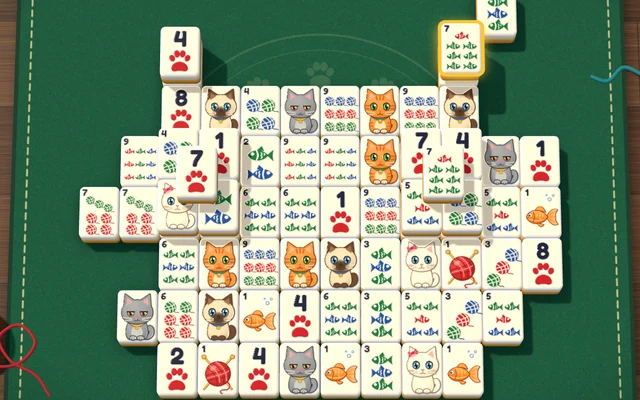
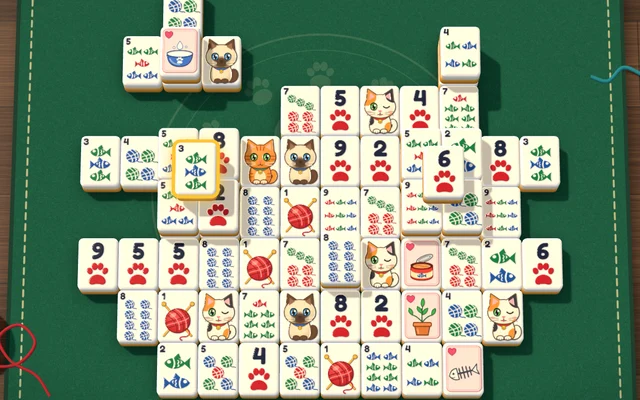
Purrjong: tighter movement on the 3D table
A matched pair rises only as far as it needs to clear what stands between the two tiles, and meets sooner.
Tiles are dealt from lower down, hints run on the same clock as the rest, the yarn has more thread to it.
The flat fallback no longer trips over a board that was swapped mid-move.

Claude-Session: https://claude.ai/code/session_01553PDU8sd3HscmWG3hFphE

diff --git a/mahjong/index.html b/mahjong/index.html
@@ -92,7 +92,7 @@ body.r2d .app{pointer-events:auto;background:
 
 /* pop-ups */
 .modal{position:fixed;inset:0;z-index:50;display:grid;place-items:center;padding-block:20px;padding-left:max(16px,env(safe-area-inset-left,0px));padding-right:max(16px,env(safe-area-inset-right,0px));box-sizing:border-box;background:rgba(3,20,14,.62);-webkit-backdrop-filter:blur(4px);backdrop-filter:blur(4px)}
-.card{box-sizing:border-box;width:100%;max-width:440px;max-height:calc(100dvh - 40px);overflow:auto;background:var(--paper);color:var(--paper-ink);border-radius:24px;padding:24px 22px 20px;box-shadow:0 24px 70px rgba(0,0,0,.5);text-align:center;animation:pop .26s cubic-bezier(.2,1.3,.4,1)}
+.card{color-scheme:light;box-sizing:border-box;width:100%;max-width:440px;max-height:calc(100dvh - 40px);overflow:auto;background:var(--paper);color:var(--paper-ink);border-radius:24px;padding:24px 22px 20px;box-shadow:0 24px 70px rgba(0,0,0,.5);text-align:center;animation:pop .26s cubic-bezier(.2,1.3,.4,1)}
 @keyframes pop{from{transform:scale(.92);opacity:0}}
 .card h2{margin:4px 0 8px;font-size:30px;font-weight:700;line-height:1.1;text-wrap:balance}
 .card p{margin:0 0 14px;font-size:16px;line-height:1.45;color:var(--paper-soft)}
@@ -687,7 +687,7 @@ function make2d(){
         if (RM){ el.hidden = true; continue; }
         el.style.zIndex = 9000;
         el.animate([{transform:'none', opacity:1}, {transform:'translateY(-14%) scale(1.12)', opacity:1, offset:.35}, {transform:'translateY(-30%) scale(.6)', opacity:0}], {duration:330, easing:'ease-in'})
-          .onfinish = () => { el.hidden = true; el.style.zIndex = zi(i); };
+          .onfinish = () => { if (els[i] !== el) return; el.hidden = true; el.style.zIndex = zi(i); };
       }
     },
     back(a, b){
@@ -698,7 +698,7 @@ function make2d(){
       const swap = () => { for (const i of alive){ els[i].querySelector('use').setAttribute('href', '#' + S.f[i]); els[i].setAttribute('aria-label', NAME[S.f[i]]); } };
       if (RM){ swap(); done(); return; }
       alive.forEach(i => els[i].animate([{transform:'none'}, {transform:'scaleX(0)'}], {duration:160, easing:'ease-in', fill:'forwards'}));
-      setTimeout(() => { swap(); alive.forEach(i => { els[i].getAnimations().forEach(x => x.cancel()); els[i].animate([{transform:'scaleX(0)'}, {transform:'none'}], {duration:200, easing:'ease-out'}); }); done(); }, 170);
+      const mine = els; setTimeout(() => { if (els !== mine) return done(); swap(); alive.forEach(i => { els[i].getAnimations().forEach(x => x.cancel()); els[i].animate([{transform:'scaleX(0)'}, {transform:'none'}], {duration:200, easing:'ease-out'}); }); done(); }, 170);
     },
     dim(on){ board.classList.toggle('dim', on); },
     cheer(){}, idle(){ return true; }
@@ -870,11 +870,11 @@ async function make3d(){
     aoT.needsUpdate = true;
   }
   const yarnT = col => {
-    const N = 256, c = canvas(N * 2, N), x = c.getContext('2d'); x.fillStyle = col[0]; x.fillRect(0, 0, N * 2, N); x.lineWidth = 3.4; x.lineCap = 'round';
+    const N = 256, c = canvas(N * 2, N), x = c.getContext('2d'); x.fillStyle = col[0]; x.fillRect(0, 0, N * 2, N); x.lineWidth = 4.6; x.lineCap = 'round';
     for (let b = 0; b < 7; b++){
       const inc = .25 + Math.random() * 1.2, l0 = Math.random() * 7;
       for (let k = 0; k < 16; k++){
-        const i2 = inc + (k - 8) * .035, l1 = l0 + (k - 8) * .012; x.strokeStyle = k % 2 ? col[1] : col[2]; x.globalAlpha = k % 2 ? .7 : .4; x.beginPath();
+        const i2 = inc + (k - 8) * .035, l1 = l0 + (k - 8) * .012; x.strokeStyle = k % 2 ? col[1] : col[2]; x.globalAlpha = k % 2 ? .85 : .5; x.beginPath();
         for (let px = 0; px <= N * 2; px += 6){ const lat = Math.atan(Math.tan(i2) * Math.sin(px / N * Math.PI - l1)), yy = N / 2 - lat / (Math.PI / 2) * N / 2; if (px) x.lineTo(px, yy); else x.moveTo(px, yy); } x.stroke();
       }
     }
@@ -882,7 +882,7 @@ async function make3d(){
   };
   const props = new T.Group(); scene.add(props);
   const ball = (cols, r, pts) => {
-    const g = new T.Group(), t = yarnT(cols), m = new T.MeshStandardMaterial({map:t, bumpMap:t, bumpScale:1.2, roughness:.95, metalness:0, envMapIntensity:.15});
+    const g = new T.Group(), t = yarnT(cols), m = new T.MeshStandardMaterial({map:t, bumpMap:t, bumpScale:2.2, roughness:.95, metalness:0, envMapIntensity:.15});
     const b = new T.Mesh(new T.SphereGeometry(r, 40, 28), m); b.position.y = r; b.rotation.set(.5, .3, .2); b.castShadow = b.receiveShadow = true; g.add(b);
     const th = new T.Mesh(new T.TubeGeometry(new T.CatmullRomCurve3(pts.map(q => new T.Vector3(q[0] * r, .05, q[1] * r))), 90, .05, 6), new T.MeshStandardMaterial({color:cols[0], roughness:.95, metalness:0, envMapIntensity:.1})); th.castShadow = true; g.add(th);
     g.thread = th; props.add(g); return g;
@@ -930,8 +930,9 @@ async function make3d(){
 
   /* ---- animation: a list of things in motion, and a frame only while the list is not empty ---- */
   const anims = []; let raf = 0;
-  const SLOW = +QS.get('slow') || 1;      // ?slow=20 plays every movement twenty times slower, for looking at
-  function run(key, dur, delay, step, done){ anims.push({key, t0:performance.now() + delay * SLOW, dur:dur * SLOW, step, done}); kick(); }
+  const SLOW = +QS.get('slow') || 1, HAND = QS.has('step');      // ?slow=20 plays every movement twenty times slower; ?step stops the clock so a test can turn it by hand
+  let hand = 0; const clock = () => HAND ? hand : performance.now();
+  function run(key, dur, delay, step, done){ anims.push({key, t0:clock() + delay * SLOW, dur:dur * SLOW, step, done}); kick(); }
   function stop(key){ for (let k = anims.length - 1; k >= 0; k--) if (anims[k].key === key){ anims[k].dead = true; anims.splice(k, 1); } }
   let lastF = 0, slowN = 0, slowT = 0, warm = 0;
   function pace(now){   // only frames that follow one another count; the first few carry the cost of starting up
@@ -942,7 +943,7 @@ async function make3d(){
     if (avg > 30){ Q++; store.set('purr-q', Q); quality(); fit(); }
   }
   function frame(now){
-    raf = 0;
+    raf = 0; if (HAND) now = hand;
     for (const a of anims.slice()){
       if (a.dead) continue; const t = (now - a.t0) / a.dur; if (t < 0) continue;
       a.step(t >= 1 ? 1 : t);
@@ -951,10 +952,10 @@ async function make3d(){
     gl.render(scene, cam); pace(now);
     if (anims.length) kick();
   }
-  function kick(){ if (!raf) raf = requestAnimationFrame(frame); }
+  function kick(){ if (!raf && !HAND) raf = requestAnimationFrame(frame); }
 
   /* ---- the board ---- */
-  let meshes = [], rest = [], corners = [], topY = TT, excl = [], blk = [], hinted = new Set(), hintT = {}, selI = -1, hov = -1, span = 10, bw = 10, bh = 10, matBig = null;
+  let meshes = [], rest = [], corners = [], topY = TT, excl = [], blk = [], hinted = new Set(), selI = -1, hov = -1, span = 10, bw = 10, bh = 10, matBig = null;
   const v = new T.Vector3();
   const paint = i => { const m = meshes[i]; if (m) m.material = dimOn && blk[i] && selI !== i ? mDim : mBase; };
   function bands(){
@@ -993,7 +994,7 @@ async function make3d(){
         const m = meshes[i], r = rest[i]; m.visible = false; excl[i] = true;
         run('t' + i, 430, k * step, t => {
           m.visible = true;
-          const y = t < .72 ? 4.5 * (1 - Math.pow(t / .72, 2)) : .09 * Math.sin(Math.PI * (t - .72) / .28);
+          const y = t < .72 ? 2.6 * (1 - Math.pow(t / .72, 2)) : .09 * Math.sin(Math.PI * (t - .72) / .28);
           m.position.set(r.x, r.y + y, r.z); m.rotation.z = (1 - Math.min(1, t / .72)) * .22;
         }, () => { reset(i); settle(i); });
       });
@@ -1072,16 +1073,19 @@ async function make3d(){
       for (const i of [a, b]){ stop('y' + i); stop('t' + i); stop('h' + i); stop('n' + i); hinted.delete(i); if (selI === i) selI = -1; if (hov === i) hov = -1; paint(i); }
       placeHalo(); drawAO();
       if (RM){ for (const i of [a, b]) meshes[i].visible = false; meet(); kick(); return; }
-      const ra = rest[a], rb = rest[b], fly = topY + TT / 2 + .5, lf = ra.x < rb.x || (ra.x === rb.x && ra.z <= rb.z) ? a : b, mx = (ra.x + rb.x) / 2, mz = (ra.z + rb.z) / 2;
+      const ra = rest[a], rb = rest[b], lf = ra.x < rb.x || (ra.x === rb.x && ra.z <= rb.z) ? a : b, mx = (ra.x + rb.x) / 2, mz = (ra.z + rb.z) / 2;
+      let top = Math.max(ra.y, rb.y) + TT / 2; const dx = rb.x - ra.x, dz = rb.z - ra.z, len = dx * dx + dz * dz || 1;   // rise just clear of whatever stands between the two
+      for (let i = 0; i < rest.length; i++){ if (!S.on[i]) continue; const r = rest[i], q = Math.max(0, Math.min(1, ((r.x - ra.x) * dx + (r.z - ra.z) * dz) / len)); if (Math.abs(ra.x + dx * q - r.x) < TW && Math.abs(ra.z + dz * q - r.z) < TH && r.y + TT / 2 > top) top = r.y + TT / 2; }
+      const fly = top + TT / 2 + .32;
       let met = false;
       for (const i of [a, b]){
         const m = meshes[i], r = rest[i], side = i === lf ? -1 : 1, yy = m.position.y, tx = mx + side * TW * .5; excl[i] = true;
-        run('t' + i, 600, 0, t => {
-          if (t < .3){ const e = outCubic(t / .3); m.position.set(r.x, yy + (fly - yy) * e, r.z); m.scale.setScalar(1 + .08 * e); }
-          else if (t < .7){ const e = (t - .3) / .4, q = e * e * e; m.position.set(r.x + (tx - r.x) * q, fly, r.z + (mz - r.z) * q); m.rotation.z = -side * Math.sin(e * Math.PI) * .12; }
+        run('t' + i, 540, 0, t => {
+          if (t < .28){ const e = outCubic(t / .28); m.position.set(r.x, yy + (fly - yy) * e, r.z); m.scale.setScalar(1 + .08 * e); }
+          else if (t < .68){ const e = (t - .28) / .4, q = e * e * e; m.position.set(r.x + (tx - r.x) * q, fly, r.z + (mz - r.z) * q); m.rotation.z = -side * Math.sin(e * Math.PI) * .12; }
           else {
             if (!met){ met = true; meet(); burst(new T.Vector3(mx, fly + .1, mz)); }
-            const e = (t - .7) / .3, sc = e < .3 ? 1.08 + .12 * Math.sin(e / .3 * Math.PI / 2) : 1.2 * (1 - Math.pow((e - .3) / .7, 2));
+            const e = (t - .68) / .32, sc = e < .3 ? 1.08 + .12 * Math.sin(e / .3 * Math.PI / 2) : 1.2 * (1 - Math.pow((e - .3) / .7, 2));
             m.position.set(tx - side * e * .08, fly + e * .3, mz); m.rotation.z = 0; m.rotation.y = side * e * .7; m.scale.setScalar(Math.max(.0001, sc));
           }
         }, () => { m.visible = false; reset(i); });
@@ -1098,9 +1102,9 @@ async function make3d(){
       for (const i of [a, b]){
         hinted.add(i); stop('h' + i); const m = meshes[i], r = rest[i];
         if (!RM) run('h' + i, 1500, 0, t => { if (!excl[i] && selI !== i) m.position.y = r.y + Math.abs(Math.sin(t * Math.PI * 3)) * .2 * (1 - t * .5); }, () => settle(i));
-        clearTimeout(hintT[i]); hintT[i] = setTimeout(() => { hinted.delete(i); bands(); kick(); }, 2300 * SLOW);
       }
-      bands(); stop('hp'); run('hp', 2300, 0, t => { const k = .5 - .5 * Math.cos(t * Math.PI * 6); mintM.color.setRGB(.1 + .5 * k, .8 + .2 * k, .45 + .35 * k, T.SRGBColorSpace); });
+      for (const i of [...hinted]) if (i !== a && i !== b) hinted.delete(i);
+      bands(); stop('hp'); run('hp', 2300, 0, t => { const k = .5 - .5 * Math.cos(t * Math.PI * 6); mintM.color.setRGB(.1 + .5 * k, .8 + .2 * k, .45 + .35 * k, T.SRGBColorSpace); }, () => { hinted.clear(); bands(); });
     },
     shuffle(alive, done){
       const swap = i => { meshes[i].geometry = geoFor(S.f[i]); };
@@ -1118,7 +1122,7 @@ async function make3d(){
     },
     dim(){ for (let i = 0; i < meshes.length; i++) paint(i); kick(); },
     cheer(){ if (RM) return; for (let k = 0; k < 5; k++) setTimeout(() => burst(new T.Vector3((Math.random() - .5) * span, 1.2 + Math.random(), (Math.random() - .5) * span * .8)), k * 140); },
-    idle(){ return !anims.length; },
+    idle(){ return !anims.length; }, step(ms){ hand += ms; frame(hand); return anims.length; },
     at(i){ v.copy(rest[i]); v.y += TT / 2; v.project(cam); return [(v.x + 1) / 2 * innerWidth, (1 - v.y) / 2 * innerHeight]; },
     three:{T, scene, cam, gl, key, mBase, wood, kick}
   };
